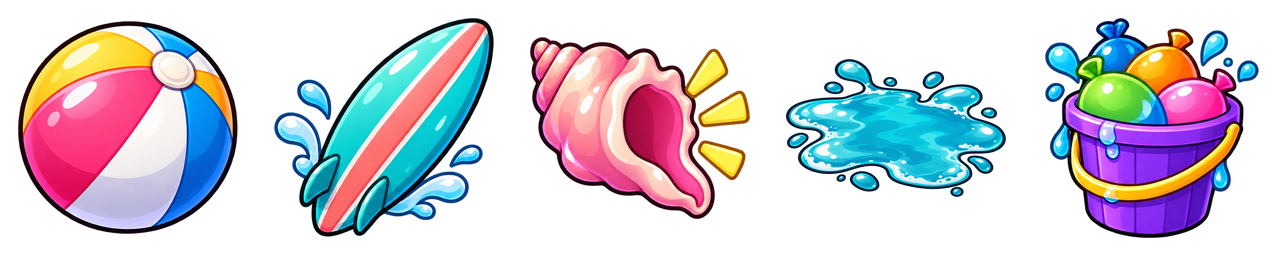
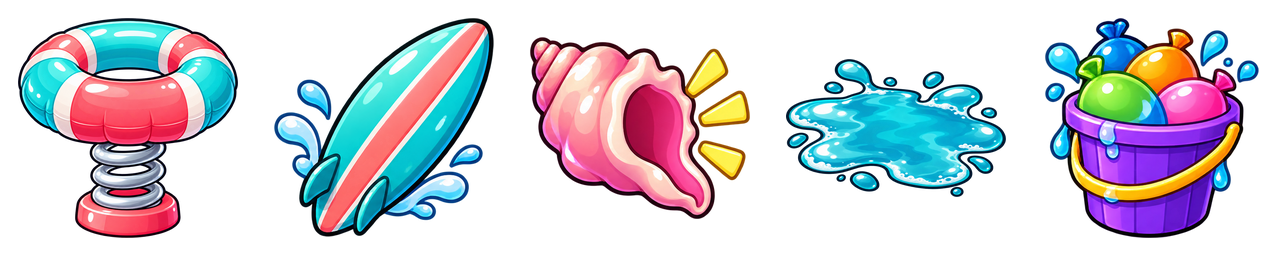
Replace Beach jump pickup with pool spring; asset and browser checks passed

Changed region(s): [[0.0, 0.0625, 0.1875, 0.9375]]

diff --git a/americangirldollrace/index.html b/americangirldollrace/index.html
@@ -21,7 +21,7 @@
     <link rel="preload" as="image" href="assets/ui/title_hero_lily.webp" fetchpriority="high">
     <link rel="preload" as="image" href="assets/ui/title_hero_rumi.webp" fetchpriority="high">
     <link rel="preload" as="image" href="assets/ui/title_hero_kaya.webp" fetchpriority="high">
-    <link rel="stylesheet" href="styles.css?v=20261021v">
+    <link rel="stylesheet" href="styles.css?v=20261021-pool-spring">
   </head>
   <body>
     <main class="shell">
@@ -303,18 +303,18 @@
       </section>
     </main>
     <div id="barsHint" hidden><span class="bars-arrow" aria-hidden="true">↑</span> Swipe up to hide Safari’s bars · or Share → Add to Home Screen</div>
-    <script src="config.js?v=20261021v"></script>
-    <script src="tracks.js?v=20261021v"></script>
-    <script src="assets/audio/manifest.js?v=20261021v"></script>
-    <script src="audio.js?v=20261021v"></script>
-    <script src="recolor.js?v=20261021v"></script>
-    <script src="dolls.js?v=20261021v"></script>
-    <script src="outfits.js?v=20261021v"></script>
-    <script src="mounts.js?v=20261021v"></script>
-    <script src="broom.js?v=20261021v"></script>
-    <script src="troll-art.js?v=20261021v"></script>
-    <script src="game.js?v=20261021v"></script>
-    <script src="menu.js?v=20261021v"></script>
-    <script src="chrome.js?v=20261021v"></script>
+    <script src="config.js?v=20261021-pool-spring"></script>
+    <script src="tracks.js?v=20261021-pool-spring"></script>
+    <script src="assets/audio/manifest.js?v=20261021-pool-spring"></script>
+    <script src="audio.js?v=20261021-pool-spring"></script>
+    <script src="recolor.js?v=20261021-pool-spring"></script>
+    <script src="dolls.js?v=20261021-pool-spring"></script>
+    <script src="outfits.js?v=20261021-pool-spring"></script>
+    <script src="mounts.js?v=20261021-pool-spring"></script>
+    <script src="broom.js?v=20261021-pool-spring"></script>
+    <script src="troll-art.js?v=20261021-pool-spring"></script>
+    <script src="game.js?v=20261021-pool-spring"></script>
+    <script src="menu.js?v=20261021-pool-spring"></script>
+    <script src="chrome.js?v=20261021-pool-spring"></script>
   </body>
 </html>

diff --git a/americangirldollrace/tracks.js b/americangirldollrace/tracks.js
@@ -99,7 +99,7 @@ window.TRACK_THEMES = {
   },
   beach: {
     name: "Beach", music: "assets/music/Ride the Beach Tide.mp3", dirtTop: 514, loopMode: "repeat", art: ["background", "card", "powerups", "projectile", "hurdle"],
-    labels: { jump: "BEACH BALL", boost: "SURFBOARD", emp: "CONCH SHELL", oil: "SEAWEED", snowball: "WATER BALLOONS" },
+    labels: { jump: "POOL SPRING", boost: "SURFBOARD", emp: "CONCH SHELL", oil: "SEAWEED", snowball: "WATER BALLOONS" },
     beachBalls: 4
   },
   wizard: {

diff --git a/americangirldollrace/tools/tracks/build.py b/americangirldollrace/tools/tracks/build.py
@@ -107,7 +107,8 @@ def verify_puddle_cells(key, sheet):
     records = json.loads(path.read_text()) if path.exists() else {}
     if key not in records: return
     record = records[key]
-    for cell, expected in record['unchangedCellSha256'].items():
+    for cell, original in record['unchangedCellSha256'].items():
+        expected = record.get('revisedCellSha256', {}).get(cell, original)
         x = int(cell)*256
         actual = hashlib.sha256(sheet.crop((x,0,x+256,256)).tobytes()).hexdigest()
         assert actual == expected, (key, 'Non-oil cell changed', cell)
@@ -146,6 +147,9 @@ def export_track(key, kind):
             result = Image.open(HERE/'puddle-redos/base-sheets'/f'{key}.webp').convert('RGBA')
             replacement = icon(clean(Image.open(puddle_path)), (256,256), (220,160))
             result.paste(replacement, (768,0))
+            jump_path = folder/'jump-icon.webp'
+            if jump_path.exists():
+                result.paste(icon(clean(Image.open(jump_path)), (256,256), (220,220)), (0,0))
             verify_puddle_cells(key, result)
     else:
         result = ImageOps.fit(Image.open(path).convert('RGB'),SIZES[kind],method=Image.Resampling.LANCZOS)

diff --git a/americangirldollrace/image-requests.md b/americangirldollrace/image-requests.md
@@ -199,8 +199,8 @@ Sizes are final pixel sizes. The game scales art down but never up.
 > edge, straight-on log hurdle, five-cell pickup strip, acorn and picker card.
 > The seven liquid-only puddle redos R1–R7 are delivered and checked under
 > a standing doll; the other 28 atlas cells are pixel-identical.
-> **Still open:** Beach's jump-cell redo R8 and the §8 riding-toy poses
-> (trial: Lily, Mira, Hermione).
+> Beach's R8 jump cell is now a pool-ring spring, with its new POOL SPRING label.
+> **Still open:** the §8 riding-toy poses (trial: Lily, Mira, Hermione).
 
 Every track uses the same white picket hurdle and the same power-up icons
 today. These requests give each track its own look. **Only the art changes.**

diff --git a/americangirldollrace/tools/tracks/puddle-redos/README.md b/americangirldollrace/tools/tracks/puddle-redos/README.md
@@ -20,3 +20,9 @@ sort with a standing doll over each puddle and a second unobstructed puddle.
 A 1.5-second apart comparison of the free seawater puddle changed zero pixels,
 confirming the flat draw has no bob or rotation. game-review.webp records
 all seven themes at runtime scale; comparison.webp shows old/new oil cells.
+
+R8 separately replaces Beach cell0 with a pool-ring spring. Beach's revised
+cell0 hash is recorded in verification.json; its original hash remains for
+audit. Cells1/2/4 and the newly delivered seawater cell remain exact. The
+other six sheets still preserve all four non-oil cells exactly. The pickup
+label is POOL SPRING so kickable beach balls remain visually distinct.
